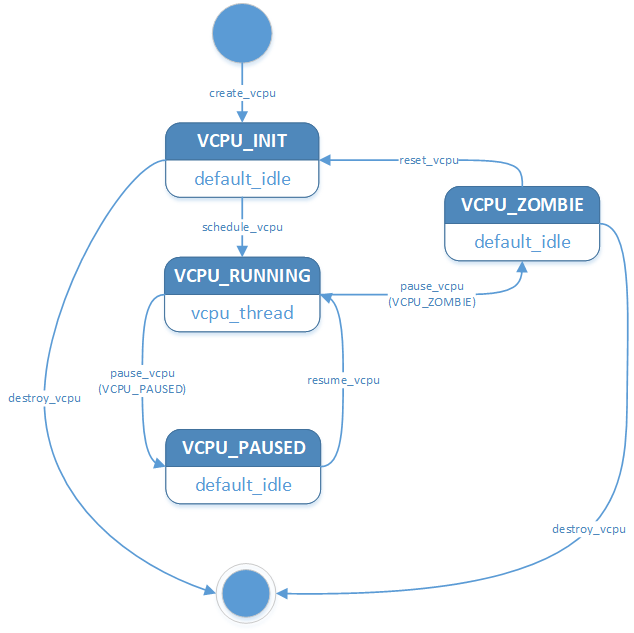
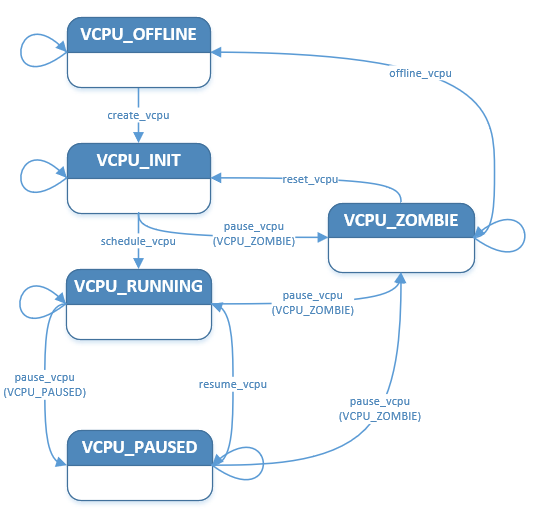
document: update HLD for cpu virtualization
updated this chapter based on latest master

Tracked-On: #3882

diff --git a/doc/developer-guides/hld/hv-cpu-virt.rst b/doc/developer-guides/hld/hv-cpu-virt.rst
@@ -22,44 +22,55 @@ Based on Intel VT-x virtualization technology, ACRN emulates a virtual CPU
    and guest execution.  (See `Static CPU Partitioning`_ for more
    information.)
 
--  **simple schedule**: only two thread loops are maintained for a CPU -
+-  **core sharing** (to be added): two or more vCPUs are sharing one
+   physical CPU (pCPU), more complicated context switch is needed
+   between different vCPUs' switching, and provides flexible computing
+   resources sharing for low performance demand vCPU tasks.
+   (See `Flexible CPU Sharing`_ for more information.)
+
+-  **simple schedule**: a well-designed scheduler framework allows ACRN
+   to adopt different scheduling policy, for example - noop & round-robin:
+
+   noop scheduler - only two thread loops are maintained for a CPU -
    vCPU thread and default idle thread. A CPU runs most of the time in
    the vCPU thread for emulating a guest CPU, switching between VMX root
    mode and non-root mode. A CPU schedules out to default idle when an
    operation needs it to stay in VMX root mode, such as when waiting for
    an I/O request from DM or ready to destroy.
 
+   round-robin scheduler (to be added) - allow more vcpu thread loops
+   running on a CPU. A CPU switches among different vCPU thread and default
+   idle thread, upon running out corresponding timeslice or necessary
+   scheduling out such as waiting for an I/O request. A vCPU could yield
+   itself as well, for example when it executes "PAUSE" instruction.
+
+
 Static CPU Partitioning
 ***********************
 
 CPU partitioning is a policy for mapping a virtual
-CPU (VCPU) to a physical CPU. The current ACRN implementation forces a
-static 1:1 mapping between VCPUs and physical CPUs and does
-not support multiple VCPUs running on a physical CPU and does not
-support VCPU migration from one physical CPU to another.
+CPU (VCPU) to a physical CPU. To enable this, the ACRN hypervisor could
+configure "noop scheduler" as the schedule policy for this physical CPU.
 
-ACRN forces a fixed 1:1 mapping between a VCPU and a physical CPU when
-creating a VCPU for the guest Operating System. This makes the VCPU
+ACRN then forces a fixed 1:1 mapping between a VCPU and this physical CPU
+when creating a VCPU for the guest Operating System. This makes the VCPU
 management code much simpler.
 
-An array is used to track the physical CPU allocation information. When
-a VCPU is created, we query, allocate, and update the array to map the
-VCPU to an available physical CPU.
+``vcpu_affinity`` in ``vm config`` help to decide which physical CPU a
+VCPU in a VM affine to, then finalize the fixed mapping.
 
-The physical CPU number assignment for each guest is pre-defined. For
-example, on a platform with four CPU cores, one physical CPU is assigned
-to run the Service Operating System (SOS) and other three physical CPUs
-are assigned to run the User Operating System (UOS) instances.
+Flexible CPU Sharing
+********************
 
-.. note::
+This is a TODO feature.
+To enable CPU sharing, the ACRN hypervisor could configure "round-robin
+scheduler" as the schedule policy for corresponding physical CPU.
 
-   To improvement SOS boot time, all physical CPUs are assigned to the SOS
-   during the SOS boot. Afterward, the physical CPUs defined for the UOS
-   are allocated by the Device Model (DM) by running the launch_uos.sh
-   script.
+``vcpu_affinity`` in ``vm config`` help to decide which physical CPU two
+or more VCPUs from different VMs are sharing.
 
-CPU management in SOS
-=====================
+CPU management in SOS under static CPU partitioning
+===================================================
 
 With ACRN, all ACPI table entries are pass-thru to the SOS, including
 the Multiple Interrupt Controller Table (MADT). The SOS sees all
@@ -79,80 +90,44 @@ Here is an example flow of CPU allocation on a multi-core platform.
 
    CPU allocation on a multi-core platform
 
+CPU management in SOS under flexing CPU sharing
+===============================================
+
+As all SOS CPUs could share with different UOSs, ACRN can still pass-thru
+MADT to Service VM, and the SOS is still able to see all physcial CPUs.
+
+But as under CPU sharing, SOS does not need offline/release the physical
+CPUs intended for UOS use.
+
 CPU management in UOS
 =====================
 
-From the UOS point of view, CPU management is very simple, using a
-hypercall to create the virtual CPUs. Here's an example from from the DM
-code:
+From the UOS point of view, CPU management is very simple - when DM do
+hypercall to create VM, the hypervisor will create its all virtual CPUs
+based on the configuration in this UOS VM's ``vm config``.
 
-.. code-block:: c
+As mentioned in previous description, ``vcpu_affinity`` in ``vm config``
+tells which physical CPUs a VM's VCPU will use, and the scheduler policy
+associated with corresponding physical CPU decide this VCPU will run in
+partition or sharing mode.
 
-   int vm_create_vcpu(struct vmctx *ctx, uint16_t vcpu_id)
-   {
-      struct acrn_create_vcpu cv;
-      int error;
-
-      bzero(&cv, sizeof(struct acrn_create_vcpu));
-      cv.vcpu_id = vcpu_id;
-      error = ioctl(ctx->fd, IC_CREATE_VCPU, &cv);
-      return error;
-   }
-
-The VHM will respond to the ioctl:
-
-.. code-block:: c
-
-   case IC_CREATE_VCPU: {
-      struct acrn_create_vcpu cv;
-
-      if (copy_from_user(&cv, (void *)ioctl_param,
-                         sizeof(struct acrn_create_vcpu)))
-         return -EFAULT;
-
-      ret = acrn_hypercall2(HC_CREATE_VCPU, vm->vmid,
-                            virt_to_phys(&cv));
-      if (ret < 0) {
-         pr_err("vhm: failed to create vcpu %d!\\n",
-                 cv.vcpu_id);
-         return -EFAULT;
-      }
-
-      atomic_inc(&vm->vcpu_num);
-      return ret;
-   }
-
-The hypercall ``HC_CREATE_VCPU`` is handled in the hypervisor with
-the parameter:
-
-.. doxygenstruct:: acrn_create_vcpu
-   :project: Project ACRN
 
 CPU assignment management in HV
 ===============================
 
-When we create a VCPU in the hypervisor, an available physical CPU is
-picked and marked as used. When we destroy the VCPU, we mark the
-physical CPU as available again.
+The physical CPU assignment is pre-defined by ``vcpu_affinity`` in
+``vm config``, necessary sanitize check should be done to ensure
 
-.. figure:: images/static-core-image1.png
-   :width: 600px
-   :align: center
-   :name: static-core-cpu-assign
+-  in one VM, each VCPU will have only one prefer physical CPU
 
-   HV CPU Assignment Management
+-  in one VM, its VCPUs will not share same physical CPU
 
-#. ``allocate_pcpu()`` queries the physical CPU allocation info to get an
-   available physical CPU and marks physical CPU as not available
-#. Physical CPU info is passed to ``create_vcpu()`` and a mapping is built
-   between the physical CPU and virtual CPU
-#. When the VCPU is destroyed VCPU, the physical CPU is passed to the
-   ``free_pcpu()`` function
-#. ``free_pcpu()`` marks the physical CPU available again.
+-  in one VM, if a VCPU is using "noop scheduler", corresponding
+   physical CPU will not be shared with any other VM's VCPU
 
 Currently, the ACRN hypervisor does not support virtual CPU migration to
 different physical CPUs. This means no changes to the virtual CPU to
-physical CPU can happen without first calling destroy_vcpu.
+physical CPU can happen without first calling offline_vcpu.
 
 
 .. _vCPU_lifecycle:
@@ -163,17 +138,19 @@ vCPU Lifecycle
 A vCPU lifecycle is shown in :numref:`hv-vcpu-transitions` below, where
 the major states are:
 
--  **VCPU_INIT**: vCPU is in an initialized state, and its associated CPU
-   is running in default_idle
+-  **VCPU_INIT**: vCPU is in an initialized state, and its vCPU thread
+   is not ready to run on its associated CPU
 
--  **VCPU_RUNNING**: vCPU is running, and its associated CPU is running in
-   vcpu_thread
+-  **VCPU_RUNNING**: vCPU is running, and its vCPU thread is ready (in
+   the queue) or running on its associated CPU
 
--  **VCPU_PAUSED**: vCPU is paused, and its associated CPU is running in
-   default_idle
+-  **VCPU_PAUSED**: vCPU is paused, and its vCPU thread is not running
+   on its associated CPU
 
--  **VPCU_ZOMBIE**: vCPU is being destroyed, and its associated CPU
-   is running in default_idle
+-  **VPCU_ZOMBIE**: vCPU is being offline, and its vCPU thread is not
+   running on its associated CPU
+
+-  **VPCU_OFFLINE**: vCPU is offlined
 
 .. figure:: images/hld-image17.png
    :align: center
@@ -199,30 +176,29 @@ lifecycle:
 .. doxygenfunction:: reset_vcpu
    :project: Project ACRN
 
-.. doxygenfunction:: run_vcpu
+.. doxygenfunction:: offline_vcpu
    :project: Project ACRN
 
 
-vCPU Scheduling
-***************
+vCPU Scheduling under static CPU partitioning
+*********************************************
 
 .. figure:: images/hld-image35.png
    :align: center
    :name: hv-vcpu-schedule
 
-   ACRN vCPU scheduling flow
+   ACRN vCPU scheduling flow under static CPU partitioning
 
-As describes in the CPU virtualization overview, ACRN implements a simple
-scheduling mechanism based on two threads: vcpu_thread and
-default_idle. A vCPU with VCPU_RUNNING state always runs in
-a vcpu_thread loop, meanwhile a vCPU with VCPU_PAUSED or VCPU_ZOMBIE
-state runs in default_idle loop. The detail behaviors in
-vcpu_thread and default_idle threads are illustrated in
-:numref:`hv-vcpu-schedule`:
+As describes in the CPU virtualization overview, if under static
+CPU partitioning, ACRN implements a simple scheduling mechanism
+based on two threads: vcpu_thread and default_idle. A vCPU with
+VCPU_RUNNING state always runs in a vcpu_thread loop, meanwhile
+a vCPU with VCPU_PAUSED or VCPU_ZOMBIE state runs in default_idle
+loop. The detail behaviors in vcpu_thread and default_idle threads
+are illustrated in :numref:`hv-vcpu-schedule`:
 
--  The **vcpu_thread** loop will try to initialize a vCPU's vmcs during
-   its first launch and then do the loop of handling its associated
-   softirq, vm exits, and pending requests around the VM entry/exit.
+-  The **vcpu_thread** loop will do the loop of handling vm exits,
+   and pending requests around the VM entry/exit.
    It will also check the reschedule request then schedule out to
    default_idle if necessary. See `vCPU Thread`_ for more details
    of vcpu_thread.
@@ -250,7 +226,7 @@ Some example scenario flows are shown here:
 
 -  **During shutting down a VM**: *pause_vm* function call makes a vCPU
    running in *vcpu_thread* to schedule out to *default_idle*. The
-   following *reset_vcpu*  and *destroy_vcpu* de-init and then destroy
+   following *reset_vcpu*  and *offline_vcpu* de-init and then offline
    this vCPU instance.
 
 -  **During IOReq handling**: after an IOReq is sent to DM for emulation, a
@@ -259,6 +235,11 @@ Some example scenario flows are shown here:
    complete the emulation for this IOReq, it calls
    *hcall_notify_ioreq_finish->resume_vcpu* and makes the vCPU
    schedule back to *vcpu_thread* to continue its guest execution.
+
+vCPU Scheduling under flexible CPU sharing
+******************************************
+
+To be added.
 
 vCPU Thread
 ***********
@@ -271,27 +252,22 @@ The vCPU thread flow is a loop as shown and described below:
    ACRN vCPU thread
 
 
-1. Check if this is the vCPU's first launch. If yes, do VMCS
-   initialization. (See `VMX Initialization`_.)
+1. Check if *vcpu_thread* needs to schedule out to *default_idle* or
+   other *vcpu_thread* by reschedule request. If needed, then schedule
+   out to *default_idle* or other *vcpu_thread*.
 
-2. Handle softirq by calling *do_softirq*.
-
-3. Handle pending request by calling *acrn_handle_pending_request*.
+2. Handle pending request by calling *acrn_handle_pending_request*.
    (See `Pending Request Handlers`_.)
 
-4. Check if *vcpu_thread* needs to schedule out to *default_idle* by
-   reschedule request. If needed, then schedule out to
-   *default_idle*.
-
-5. VM Enter by calling *start/run_vcpu*, then enter non-root mode to do
+3. VM Enter by calling *start/run_vcpu*, then enter non-root mode to do
    guest execution.
 
-6. VM Exit from *start/run_vcpu* when guest trigger vm exit reason in
+4. VM Exit from *start/run_vcpu* when guest trigger vm exit reason in
    non-root mode.
 
-7. Handle vm exit based on specific reason.
+5. Handle vm exit based on specific reason.
 
-8. Loop back to step 2.
+6. Loop back to step 1.
 
 vCPU Run Context
 ================
@@ -405,6 +381,14 @@ that will trigger an error message and return without handling:
      - external_interrupt_vmexit_handler
      - External interrupt handler for physical interrupt happening in non-root mode
 
+   * - VMX_EXIT_REASON_TRIPLE_FAULT
+     - triple_fault_vmexit_handler
+     - Handle triple fault from vcpu
+
+   * - VMX_EXIT_REASON_INIT_SIGNAL
+     - init_signal_vmexit_handler
+     - Handle INIT signal from vcpu
+
    * - VMX_EXIT_REASON_INTERRUPT_WINDOW
      - interrupt_window_vmexit_handler
      - To support interrupt window if VID is disabled
@@ -477,7 +461,7 @@ A bitmap in the vCPU structure lists the different requests:
    #define ACRN_REQUEST_EVENT 1U
    #define ACRN_REQUEST_EXTINT 2U
    #define ACRN_REQUEST_NMI 3U
-   #define ACRN_REQUEST_TMR_UPDATE 4U
+   #define ACRN_REQUEST_EOI_EXIT_BITMAP_UPDATE 4U
    #define ACRN_REQUEST_EPT_FLUSH 5U
    #define ACRN_REQUEST_TRP_FAULT 6U
    #define ACRN_REQUEST_VPID_FLUSH 7U /* flush vpid tlb */
@@ -492,6 +476,8 @@ running). See :ref:`vcpu-request-interrupt-injection` for details.
 
    void vcpu_make_request(struct vcpu *vcpu, uint16_t eventid)
    {
+      uint16_t pcpu_id = pcpuid_from_vcpu(vcpu);
+
       bitmap_set_lock(eventid, &vcpu->arch_vcpu.pending_req);
       /*
        * if current hostcpu is not the target vcpu's hostcpu, we need
@@ -502,8 +488,8 @@ running). See :ref:`vcpu-request-interrupt-injection` for details.
        *  scheduling, we need change here to determine it target vcpu is
        *  VMX non-root or root mode
        */
-      if (get_cpu_id() != vcpu->pcpu_id) {
-              send_single_ipi(vcpu->pcpu_id, VECTOR_NOTIFY_VCPU);
+      if (get_cpu_id() != pcpu_id) {
+              send_single_ipi(pcpu_id, VECTOR_NOTIFY_VCPU);
       }
    }
 
@@ -544,11 +530,10 @@ request as shown below.
      - vcpu_inject_nmi
      - program VMX_ENTRY_INT_INFO_FIELD directly
 
-   * - ACRN_REQUEST_TMR_UPDATE
-     - Request for update vIOAPIC TMR, which also leads to vLAPIC
-       VEOI bitmap update for level triggered vector
-     - vlapic_reset_tmr or vioapic_indirect_write change trigger mode in RTC
-     - vioapic_update_tmr
+   * - ACRN_REQUEST_EOI_EXIT_BITMAP_UPDATE
+     - Request for update VEOI bitmap update for level triggered vector
+     - vlapic_reset_tmr or vlapic_set_tmr change trigger mode in RTC
+     - vcpu_set_vmcs_eoi_exit
 
    * - ACRN_REQUEST_EPT_FLUSH
      - Request for EPT flush
@@ -578,22 +563,21 @@ entry control and exit control, as shown in the table below.
 
 The table briefly shows how each field got configured.
 The guest state field is critical for a guest CPU start to run
-based on different CPU modes. One structure *boot_ctx* is used to pass
-the necessary initialized guest state to VMX, used only for the BSP of a
-guest.
+based on different CPU modes.
 
 For a guest vCPU's state initialization:
 
--  If it's BSP, the guest state configuration is based on *boot_ctx*,
-   which could be initialized on different objects:
+-  If it's BSP, the guest state configuration is done in SW load,
+   which could be initialized by different objects:
 
-   -  SOS BSP based on SBL: booting up context saved at the entry of
-      system boot up
+   -  SOS BSP: hypervisor will do context initialization in different
+      SW load based on different boot mode
+
 
    -  UOS BSP: DM context initialization through hypercall
 
 -  If it's AP, then it will always start from real mode, and the start
-       vector will always come from vlapic INIT-SIPI emulation. 
+       vector will always come from vlapic INIT-SIPI emulation.
 
 .. doxygenstruct:: acrn_vcpu_regs
    :project: Project ACRN
